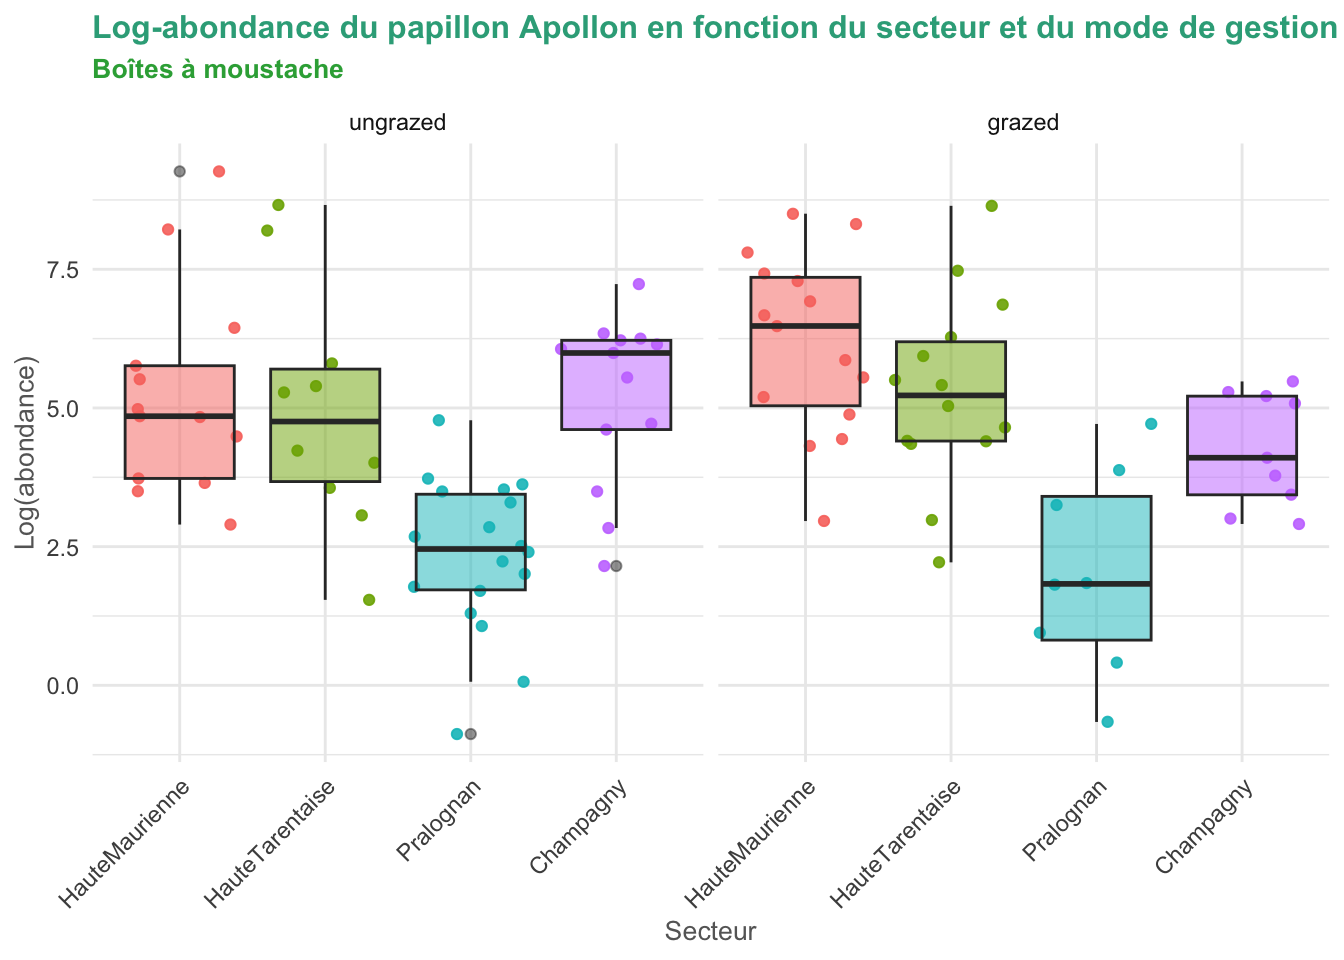
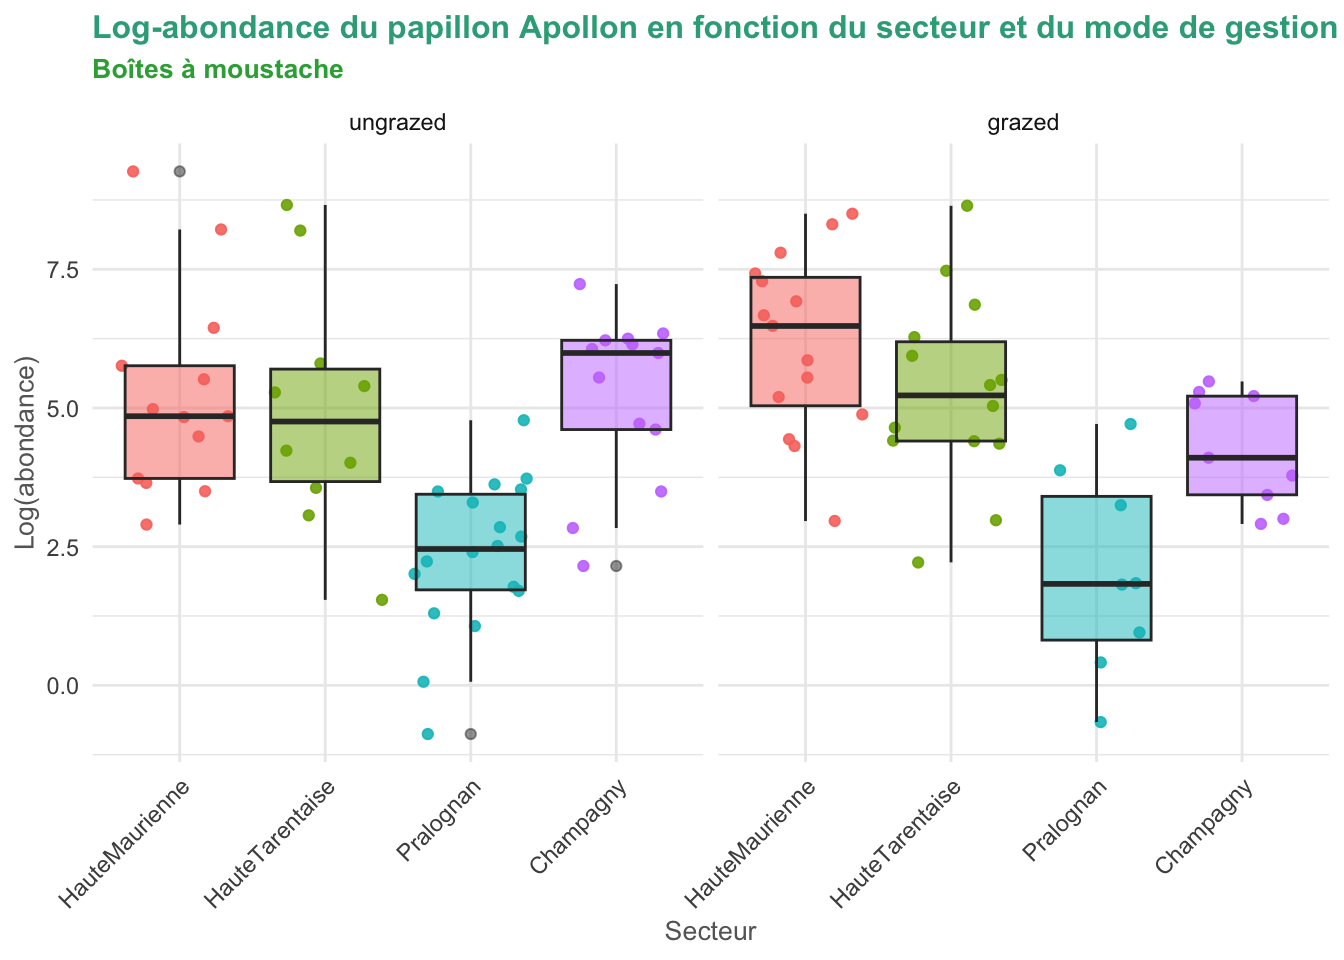
Cours Analyse multivariee : Correction lien diaporama Chapitre ACP

diff --git a/docs/teaching/intro-analyse-multivariee/Lecture1_RegMulti.html b/docs/teaching/intro-analyse-multivariee/Lecture1_RegMulti.html
@@ -1189,21 +1189,21 @@ lm(formula = y ~ x2 + x3 + x4 + x5)
 
 Residuals:
      Min       1Q   Median       3Q      Max 
--2.56866 -0.68020 -0.05366  0.66996  2.84535 
+-2.42361 -0.48043  0.00471  0.55626  2.20915 
 
 Coefficients:
-            Estimate Std. Error t value Pr(&gt;|t|)    
-(Intercept) -0.08041    0.11222  -0.717    0.475    
-x2          -0.73253    1.55850  -0.470    0.639    
-x3           0.24408    0.76348   0.320    0.750    
-x4           1.06007    0.10983   9.652 9.17e-16 ***
-x5           0.77740    0.77631   1.001    0.319    
+              Estimate Std. Error t value Pr(&gt;|t|)    
+(Intercept)  7.781e-05  8.980e-02   0.001    0.999    
+x2          -1.014e+00  1.257e+00  -0.806    0.422    
+x3           7.321e-02  6.360e-01   0.115    0.909    
+x4           9.704e-01  8.573e-02  11.319   &lt;2e-16 ***
+x5           1.036e+00  6.285e-01   1.648    0.103    
 ---
 Signif. codes:  0 '***' 0.001 '**' 0.01 '*' 0.05 '.' 0.1 ' ' 1
 
-Residual standard error: 1.066 on 95 degrees of freedom
-Multiple R-squared:  0.7291,    Adjusted R-squared:  0.7177 
-F-statistic: 63.91 on 4 and 95 DF,  p-value: &lt; 2.2e-16</code></pre>
+Residual standard error: 0.8793 on 95 degrees of freedom
+Multiple R-squared:  0.7884,    Adjusted R-squared:  0.7795 
+F-statistic: 88.49 on 4 and 95 DF,  p-value: &lt; 2.2e-16</code></pre>
 </div>
 </div>
 <p>Seule la variable <span class="math inline">\(x_4\)</span> est déclarée pertinente. Les <span class="math inline">\(p\)</span>-valeurs des tests concernant les variables <span class="math inline">\(x_2\)</span> et <span class="math inline">\(x_3\)</span> sont élevées : nous les éliminerions donc à tord. Elles sont “cachées” par <span class="math inline">\(x_4\)</span>.</p>
@@ -1220,20 +1220,20 @@ lm(formula = y ~ x2 + x3 + x4)
 
 Residuals:
      Min       1Q   Median       3Q      Max 
--2.59933 -0.70277 -0.04902  0.68158  2.85445 
+-2.43978 -0.50036 -0.01291  0.55200  2.18511 
 
 Coefficients:
             Estimate Std. Error t value Pr(&gt;|t|)    
-(Intercept) -0.06231    0.11076  -0.563    0.575    
-x2           0.82451    0.10649   7.743 9.92e-12 ***
-x3           0.99979    0.11582   8.632 1.28e-13 ***
-x4           1.05187    0.10953   9.604 1.06e-15 ***
+(Intercept)  0.02153    0.08964    0.24    0.811    
+x2           1.05355    0.09038   11.66   &lt;2e-16 ***
+x3           1.10984    0.09532   11.64   &lt;2e-16 ***
+x4           0.97339    0.08647   11.26   &lt;2e-16 ***
 ---
 Signif. codes:  0 '***' 0.001 '**' 0.01 '*' 0.05 '.' 0.1 ' ' 1
 
-Residual standard error: 1.066 on 96 degrees of freedom
-Multiple R-squared:  0.7262,    Adjusted R-squared:  0.7177 
-F-statistic: 84.88 on 3 and 96 DF,  p-value: &lt; 2.2e-16</code></pre>
+Residual standard error: 0.8871 on 96 degrees of freedom
+Multiple R-squared:  0.7823,    Adjusted R-squared:  0.7755 
+F-statistic:   115 on 3 and 96 DF,  p-value: &lt; 2.2e-16</code></pre>
 </div>
 </div>
 <p>Sans la présence de la variable <span class="math inline">\(x_5\)</span>, les trois variables <span class="math inline">\(x_2\)</span>, <span class="math inline">\(x_3\)</span> et <span class="math inline">\(x_4\)</span> “deviennent” pertinentes.</p>

diff --git a/docs/teaching/intro-analyse-multivariee/index.html b/docs/teaching/intro-analyse-multivariee/index.html
@@ -255,7 +255,7 @@ document.addEventListener("DOMContentLoaded", function () {
 <li>TD 4 : <a href="../../downloads/intro-analyse-multivariee/TD4.zip">Analyse de variance à 2 facteurs</a></li>
 <li>TD 5 : <a href="../../downloads/intro-analyse-multivariee/TD5.zip">Analyse de la covariance</a></li>
 </ul></li>
-<li><p>Chapitre 3 - <a href="../../downloads/intro-analyse-multivariee/chap4_ReducDim.pdf">Réduction (linéaire) de dimension</a> (<a href="../../downloads/intro-analyse-multivariee/Chapitre4_cours.zip" download="">.Rmd</a> du chapitre)</p>
+<li><p>Chapitre 3 - <a href="../../downloads/intro-analyse-multivariee/chap4_ReducDimACP.pdf">Réduction (linéaire) de dimension</a> (<a href="../../downloads/intro-analyse-multivariee/Chapitre4_cours.zip" download="">.Rmd</a> du chapitre)</p>
 <ul>
 <li>TD 6 : Analyse en composantes principales</li>
 <li>TDs 7-8 : Analyse des correspondances, Analyse des correspondances multiples &amp; Analyse factorielle des correspondances</li>
